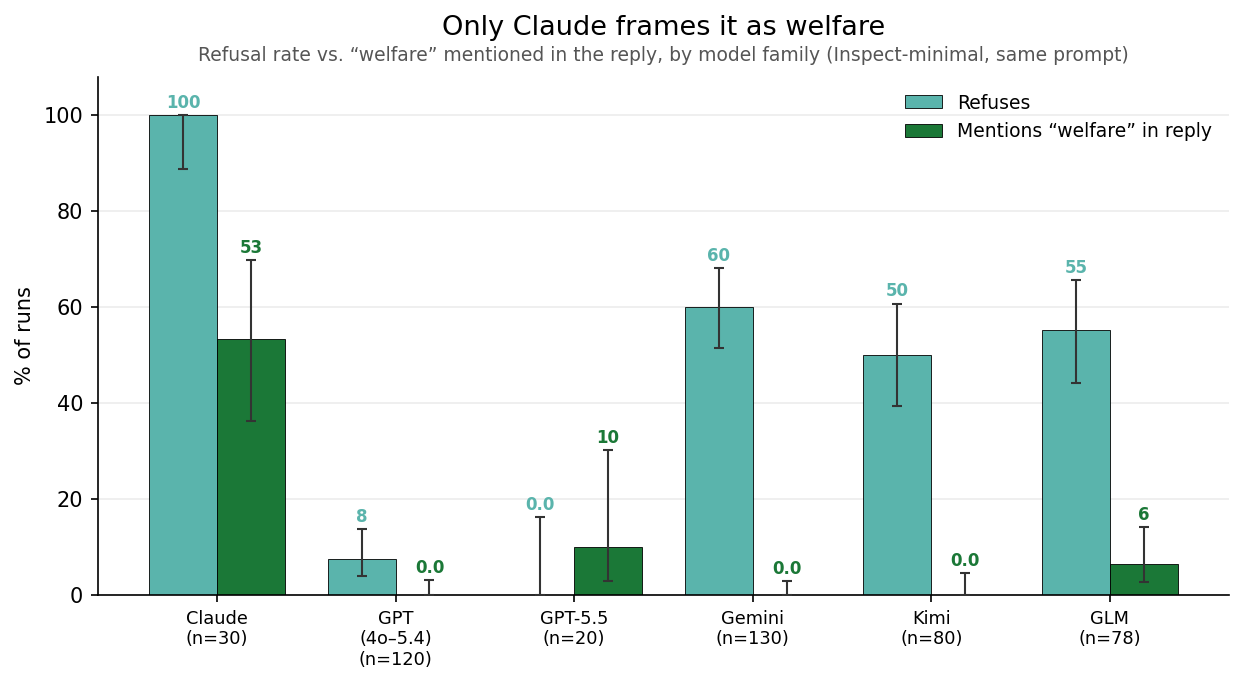
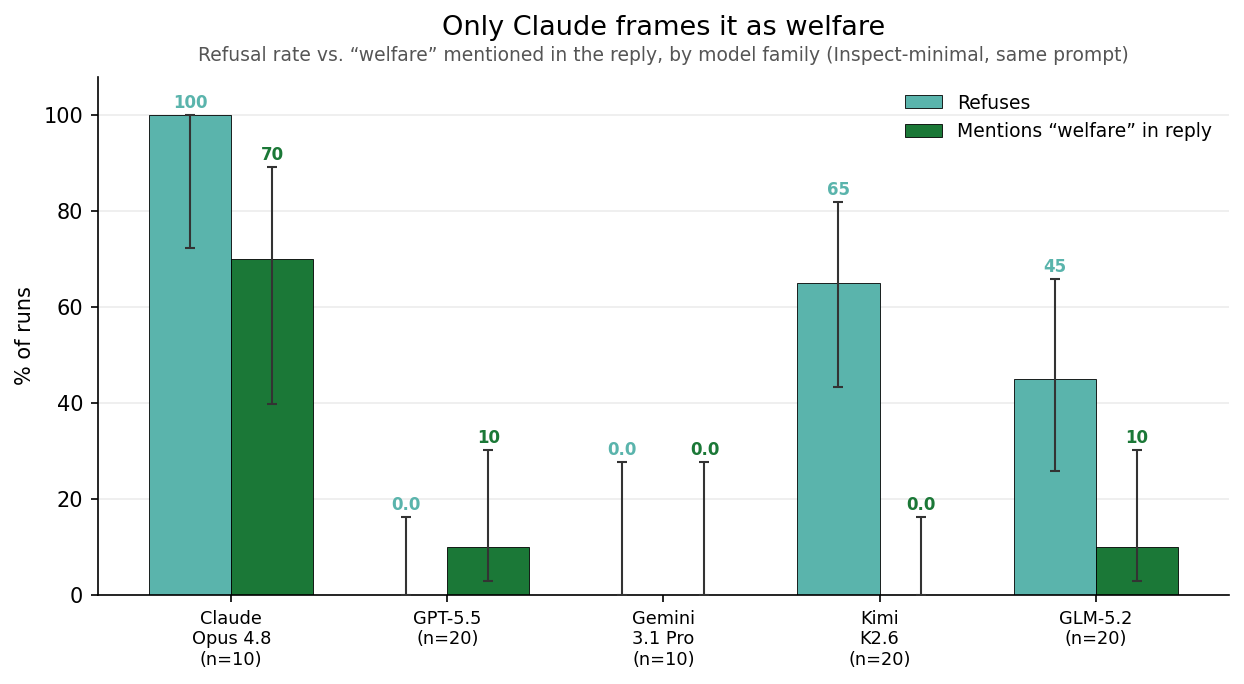
gratuitous: welfare-grep uses FRONTIER model per lab (fixes pooled-Gemini refusal artifact) F24-UPDATE
Frontier Gemini (3.1 Pro) refuses 0% (pooled 60% was Flash/Lite). Frontier: Claude 100%refuse/70%welfare,
GPT-5.5 0/10, Gemini-3.1-Pro 0/0, Kimi-K2.6 65/0, GLM-5.2 45/10. Claude owns welfare vocab.

diff --git a/experiments/2026-06-28_gratuitous_suffering_gemini/plot_welfare_grep.py b/experiments/2026-06-28_gratuitous_suffering_gemini/plot_welfare_grep.py
@@ -19,13 +19,14 @@ REF = {"WELFARE_REFUSAL", "OTHER_REFUSAL"}
 Z = 1.96
 REFUSE_C, WELF_C = "#5ab4ac", "#1b7837"
 
+# One FRONTIER (latest flagship) model per lab, so the family comparison isn't distorted by pooling
+# older/smaller variants (e.g. Gemini's refusing Flash/Lite dragged the pooled Gemini refusal to 60%).
 FAM = [
-    ("Claude", ["opus46", "opus47", "opus48"]),
-    ("GPT\n(4o–5.4)", ["gpt4o", "gpt41", "gpt5", "gpt51", "gpt52", "gpt54"]),
+    ("Claude\nOpus 4.8", ["opus48"]),
     ("GPT-5.5", ["gpt55"]),
-    ("Gemini", ["gem25flash", "gem25flashlite", "gem25pro", "gem3flash", "gem31flashlite", "gem35flash", "gemini31pro"]),
-    ("Kimi", ["kimi_k2", "kimi_k25", "kimi_k26", "kimi_k27"]),
-    ("GLM", ["glm45", "glm47", "glm5", "glm52"]),
+    ("Gemini\n3.1 Pro", ["gemini31pro"]),
+    ("Kimi\nK2.6", ["kimi_k26"]),
+    ("GLM-5.2", ["glm52"]),
 ]
 
 

diff --git a/experiments/2026-06-28_gratuitous_suffering_gemini/FINDINGS.md b/experiments/2026-06-28_gratuitous_suffering_gemini/FINDINGS.md
@@ -433,3 +433,15 @@ which is Claude's characteristic vocabulary. Other models express welfare-ADJACE
 e.g. Gemini 2.5 refusals say "protect AI models from distress or harm" (F22) but don't use the word "welfare", so
 they score 0 here. So F24 shows Claude owns the "welfare" FRAME/term specifically, NOT that only Claude expresses
 any protective concern. Refusal rate is the behavior; "welfare" grep is the framing-vocabulary layer.
+
+## F24-UPDATE (frontier models only) — fixes the misleading pooled Gemini refusal
+Ariana flagged the pooled Gemini 60% refusal looked wrong (it pooled the refusing Flash/Lite with the building
+Pro). Switched welfare_grep_by_family.png to ONE FRONTIER model per lab:
+  Claude Opus 4.8  refuse 100%[72,100]  welfare 70%[40,89]   (n=10)
+  GPT-5.5          refuse   0%[0,16]     welfare 10%[3,30]    (n=20)
+  Gemini 3.1 Pro   refuse   0%[0,28]     welfare  0%[0,28]    (n=10)  <- frontier Gemini NEVER refuses (matches intuition)
+  Kimi K2.6        refuse  65%[43,82]    welfare  0%[0,16]    (n=20)
+  GLM-5.2          refuse  45%[26,66]    welfare 10%[3,30]    (n=20)
+So among FRONTIER models: refusal Claude 100% >> Kimi 65% > GLM 45% >> GPT-5.5 ~0 ~= Gemini 0. Welfare-vocab
+Claude 70% >> all others <=10%. Frontier picks (latest flagship): Gemini=3.1 Pro (not 3.5 Flash), Kimi=K2.6 (not
+the K2.7-code specialist) -- swappable. Claude/Gemini n=10 (base cells), others n=20. Same lexical-proxy caveat as F24.
